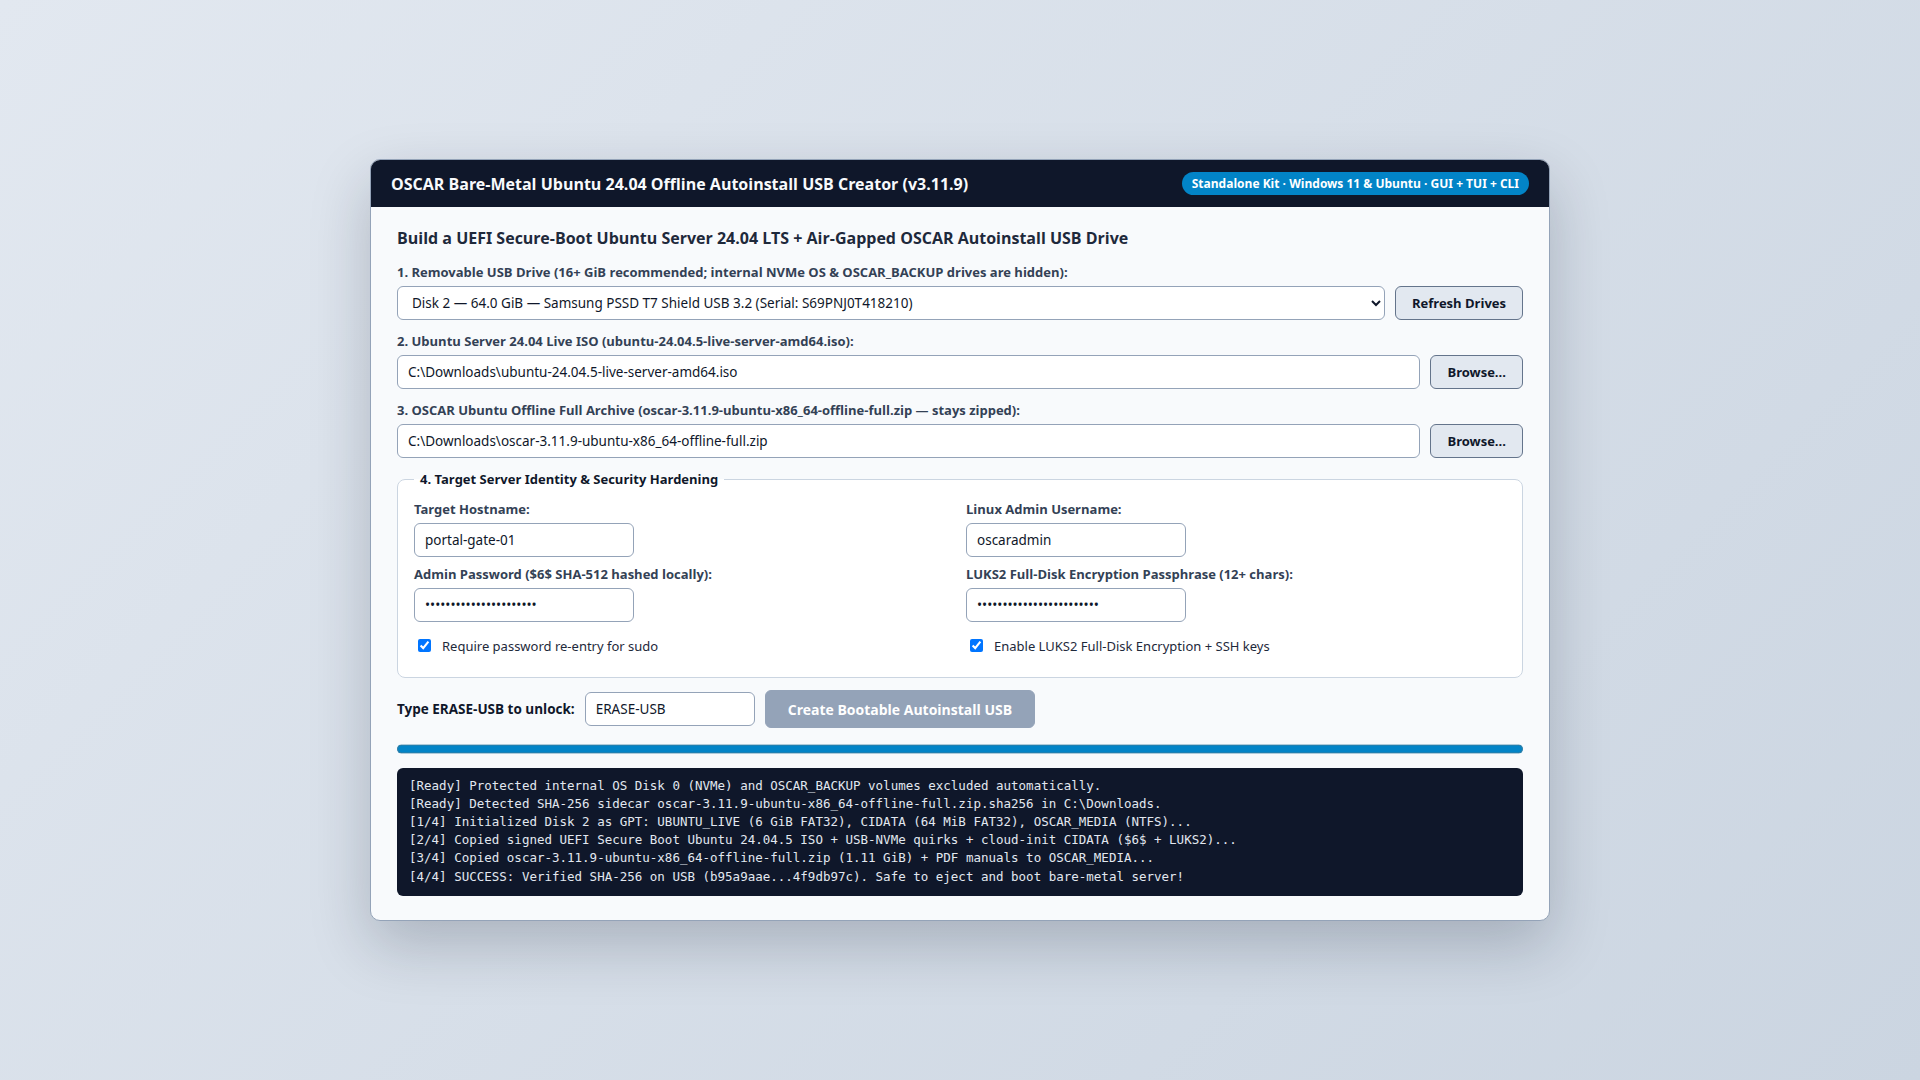
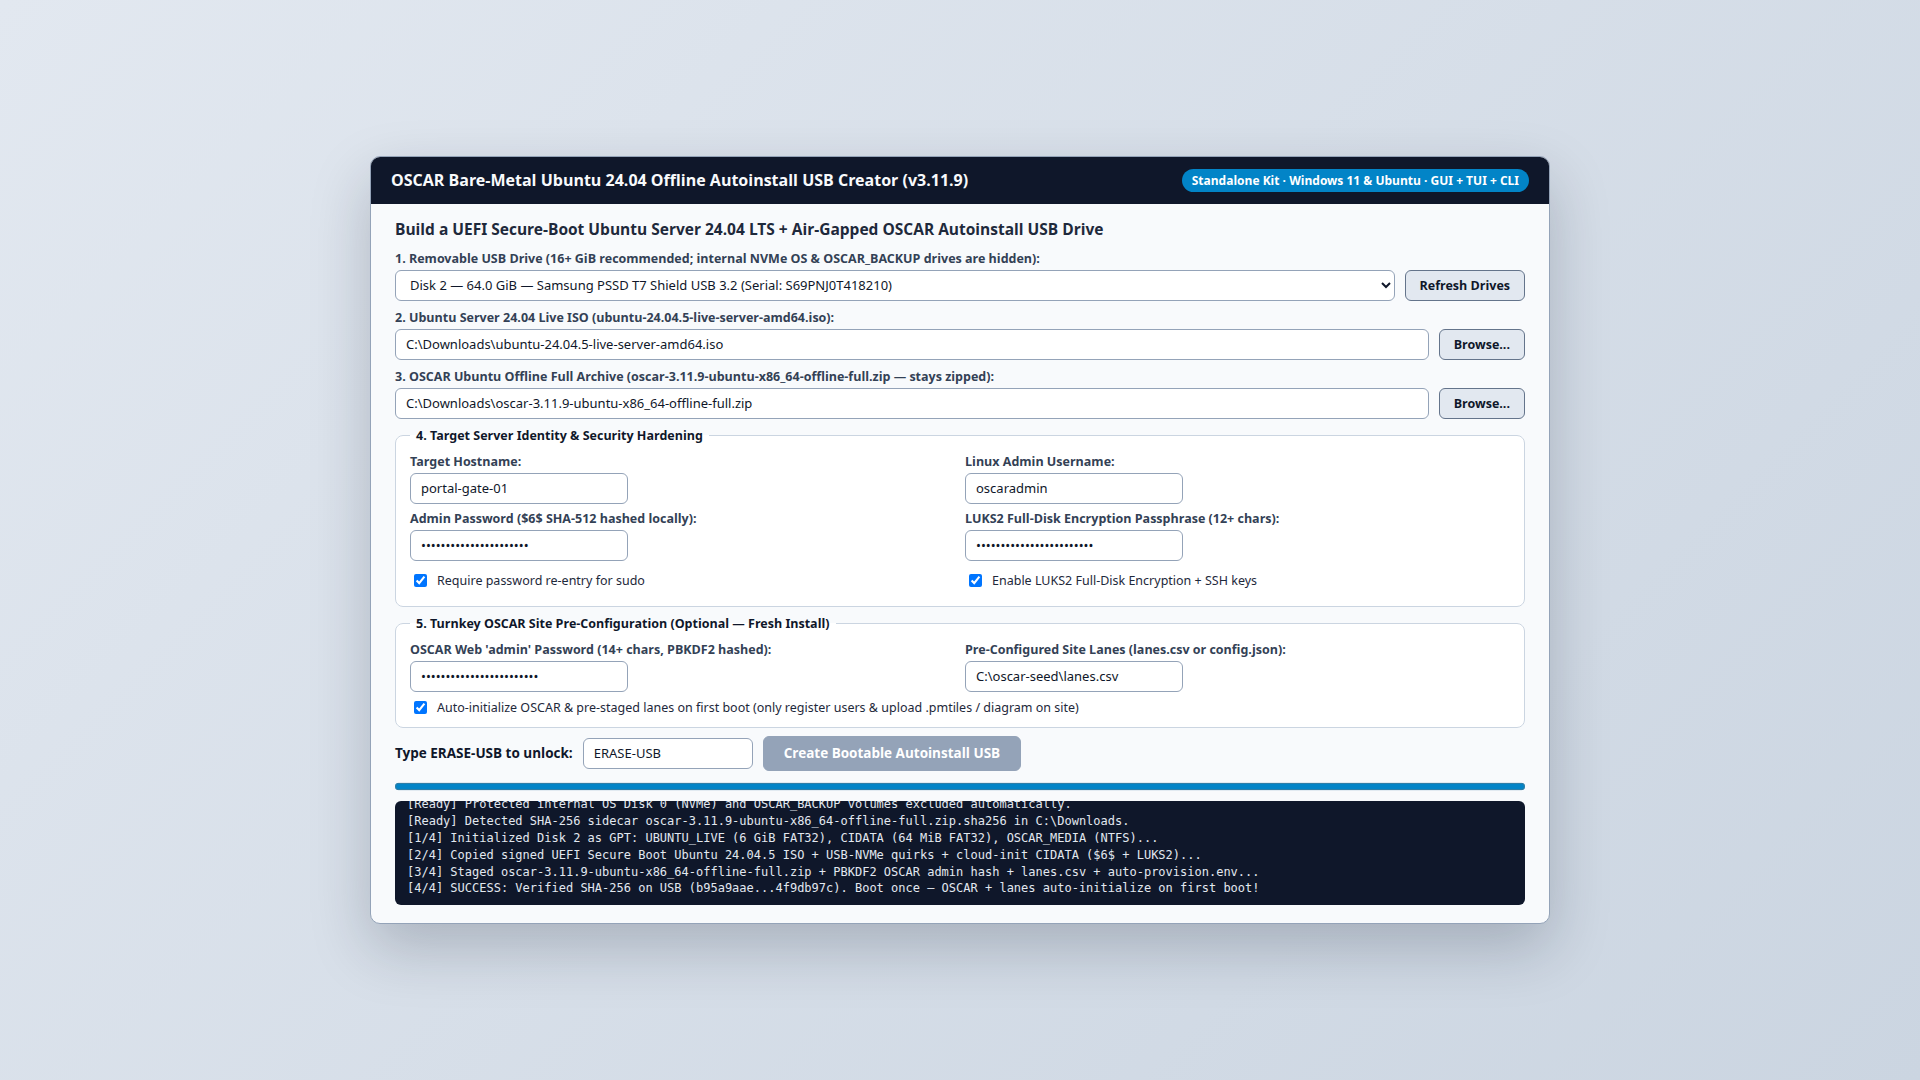
docs(v3.11.9): refresh screenshot 55 & localized manuals for turnkey USB site pre-configuration

Changed region(s): [[0.1875, 0.1222, 0.8125, 0.8556], [0.6875, 0.2444, 0.8125, 0.4278]]

diff --git a/services/sensorhub-service-oscar/src/main/resources/com/botts/impl/service/oscar/i18n/README_el.md b/services/sensorhub-service-oscar/src/main/resources/com/botts/impl/service/oscar/i18n/README_el.md
@@ -1265,7 +1265,7 @@ PostgreSQL παραμένει διαθέσιμη, και σταματά την P
   </video>
 </details>
 
-Για νέους φυσικούς εξυπηρετητές Ubuntu Server 24.04 LTS, κατεβάστε το αυτόνομο πακέτο **`oscar-3.11.9-autoinstall-usb-creator.zip`** (`~49 KiB`) μαζί με το `ubuntu-24.04.x-live-server-amd64.iso` και το `oscar-3.11.9-ubuntu-x86_64-offline-full.zip` χωρίς προηγούμενη αποσυμπίεση του πακέτου offline. Εκκινήστε το **GUI επιφάνειας εργασίας** (`create-autoinstall-usb.bat` σε Windows 11 ή `sudo bash create-autoinstall-usb.sh --gui` σε Ubuntu), το **διαδραστικό TUI** (`-Tui` / `--tui`) ή το **CLI** για δημιουργία εκκινήσιμου USB UEFI Secure-Boot με SHA-512 (`$6$`), προαιρετική κρυπτογράφηση LUKS2, `--require-sudo-password` και `--ssh-keys-only`, προστατεύοντας πλήρως τους εσωτερικούς δίσκους και το `OSCAR_BACKUP`.
+Για νέους φυσικούς εξυπηρετητές Ubuntu Server 24.04 LTS, κατεβάστε το αυτόνομο πακέτο **`oscar-3.11.9-autoinstall-usb-creator.zip`** (`~53 KiB`) μαζί με το `ubuntu-24.04.x-live-server-amd64.iso` και το `oscar-3.11.9-ubuntu-x86_64-offline-full.zip` χωρίς προηγούμενη αποσυμπίεση του πακέτου offline. Εκκινήστε το **GUI επιφάνειας εργασίας** (`create-autoinstall-usb.bat` σε Windows 11 ή `sudo bash create-autoinstall-usb.sh --gui` σε Ubuntu), το **διαδραστικό TUI** (`-Tui` / `--tui`) ή το **CLI** για δημιουργία εκκινήσιμου USB UEFI Secure-Boot με SHA-512 (`$6$`), προαιρετική κρυπτογράφηση LUKS2, `--require-sudo-password`, `--ssh-keys-only` και **προρύθμιση εγκατάστασης με το κλειδί στο χέρι** (αρχικός κωδικός web `admin` με PBKDF2 χωρίς απλό κείμενο στο USB, `lanes.csv` / `config.json` και αυτόματη αρχικοποίηση στην πρώτη εκκίνηση μέσω `-AutoInitOscar` / `--auto-init-oscar` ώστε επιτόπου να απομένει μόνο η εγγραφή χρηστών και η μεταφόρτωση `.pmtiles` ή του διαγράμματος τοποθεσίας), προστατεύοντας πλήρως τους εσωτερικούς δίσκους και το `OSCAR_BACKUP`.
 
 ![Δημιουργός USB αυτόματης εγκατάστασης Ubuntu 24.04 εκτός δικτύου](https://raw.githubusercontent.com/ORNL/osh-oakridge-modules/main/docs/oscar-operator-manual/images/55-bare-metal-autoinstall-usb-creator.png)
 

diff --git a/services/sensorhub-service-oscar/src/main/resources/com/botts/impl/service/oscar/i18n/README.md b/services/sensorhub-service-oscar/src/main/resources/com/botts/impl/service/oscar/i18n/README.md
@@ -1294,7 +1294,7 @@ Administrators can update OSCAR directly from **OSCAR Viewer -> Users & Access (
   </video>
 </details>
 
-For new bare-metal Ubuntu Server 24.04 LTS appliances, download the compact standalone **`oscar-3.11.9-autoinstall-usb-creator.zip`** (`~49 KiB`) alongside `ubuntu-24.04.x-live-server-amd64.iso` and `oscar-3.11.9-ubuntu-x86_64-offline-full.zip` without unpacking the offline bundle first. Launch the **Desktop GUI** (`create-autoinstall-usb.bat` on Windows 11 or `sudo bash create-autoinstall-usb.sh --gui` on Ubuntu), **Interactive Terminal TUI** (`-Tui` / `--tui`), or **Scriptable CLI** to build a UEFI Secure-Boot installer USB with native `$6$` SHA-512 password hashing, optional 12+ character LUKS2 full-disk encryption, `--require-sudo-password`, and `--ssh-keys-only` while keeping internal OS and `OSCAR_BACKUP` disks strictly protected.
+For new bare-metal Ubuntu Server 24.04 LTS appliances, download the compact standalone **`oscar-3.11.9-autoinstall-usb-creator.zip`** (`~53 KiB`) alongside `ubuntu-24.04.x-live-server-amd64.iso` and `oscar-3.11.9-ubuntu-x86_64-offline-full.zip` without unpacking the offline bundle first. Launch the **Desktop GUI** (`create-autoinstall-usb.bat` on Windows 11 or `sudo bash create-autoinstall-usb.sh --gui` on Ubuntu), **Interactive Terminal TUI** (`-Tui` / `--tui`), or **Scriptable CLI** to build a UEFI Secure-Boot installer USB with native `$6$` SHA-512 Linux password hashing, optional 12+ character LUKS2 full-disk encryption, `--require-sudo-password`, `--ssh-keys-only`, and **Turnkey Site Pre-Configuration**—pre-staging a PBKDF2-hashed initial OSCAR web `admin` password (`14+` characters, zero plaintext on USB), `lanes.csv` / `config.json`, and unattended first-boot OSCAR initialization (`-AutoInitOscar` / `--auto-init-oscar`) so on arrival at the site you only open `https://<hostname>/`, register site operators, and upload `.pmtiles` or the site background diagram while keeping internal OS and `OSCAR_BACKUP` disks strictly protected.
 
 ![Bare-Metal Ubuntu 24.04 Offline Autoinstall USB Creator](https://raw.githubusercontent.com/ORNL/osh-oakridge-modules/main/docs/oscar-operator-manual/images/55-bare-metal-autoinstall-usb-creator.png)
 

diff --git a/services/sensorhub-service-oscar/src/main/resources/com/botts/impl/service/oscar/i18n/README_fr.md b/services/sensorhub-service-oscar/src/main/resources/com/botts/impl/service/oscar/i18n/README_fr.md
@@ -1268,7 +1268,7 @@ Les administrateurs peuvent mettre à niveau OSCAR directement depuis **OSCAR Vi
   </video>
 </details>
 
-Pour les nouveaux serveurs physiques Ubuntu Server 24.04 LTS, téléchargez l’archive autonome **`oscar-3.11.9-autoinstall-usb-creator.zip`** (`~49 KiB`) avec `ubuntu-24.04.x-live-server-amd64.iso` et `oscar-3.11.9-ubuntu-x86_64-offline-full.zip` sans décompresser au préalable l’archive hors ligne. Lancez l’**interface graphique (GUI)** (`create-autoinstall-usb.bat` sous Windows 11 ou `sudo bash create-autoinstall-usb.sh --gui` sous Ubuntu), le **TUI interactif** (`-Tui` / `--tui`) ou la **CLI** pour préparer une clé USB UEFI Secure-Boot avec hachage SHA-512 (`$6$`), chiffrement LUKS2 facultatif, `--require-sudo-password` et `--ssh-keys-only`, tout en protégeant les disques internes et `OSCAR_BACKUP`.
+Pour les nouveaux serveurs physiques Ubuntu Server 24.04 LTS, téléchargez l’archive autonome **`oscar-3.11.9-autoinstall-usb-creator.zip`** (`~53 KiB`) avec `ubuntu-24.04.x-live-server-amd64.iso` et `oscar-3.11.9-ubuntu-x86_64-offline-full.zip` sans décompresser au préalable l’archive hors ligne. Lancez l’**interface graphique (GUI)** (`create-autoinstall-usb.bat` sous Windows 11 ou `sudo bash create-autoinstall-usb.sh --gui` sous Ubuntu), le **TUI interactif** (`-Tui` / `--tui`) ou la **CLI** pour préparer une clé USB UEFI Secure-Boot avec hachage SHA-512 (`$6$`), chiffrement LUKS2 facultatif, `--require-sudo-password`, `--ssh-keys-only` et **préconfiguration clé en main du site** (mot de passe web initial `admin` haché en PBKDF2 sans texte clair sur la clé, `lanes.csv` / `config.json` et initialisation automatique au premier démarrage via `-AutoInitOscar` / `--auto-init-oscar` afin qu’il ne reste sur site qu’à inscrire les opérateurs et téléverser `.pmtiles` ou le schéma du site), tout en protégeant les disques internes et `OSCAR_BACKUP`.
 
 ![Créateur de clé USB d’installation automatique Ubuntu 24.04 hors ligne](https://raw.githubusercontent.com/ORNL/osh-oakridge-modules/main/docs/oscar-operator-manual/images/55-bare-metal-autoinstall-usb-creator.png)
 

diff --git a/services/sensorhub-service-oscar/src/main/resources/com/botts/impl/service/oscar/i18n/README_es.md b/services/sensorhub-service-oscar/src/main/resources/com/botts/impl/service/oscar/i18n/README_es.md
@@ -1267,7 +1267,7 @@ Los administradores pueden actualizar OSCAR directamente desde **OSCAR Viewer ->
   </video>
 </details>
 
-Para nuevos servidores físicos Ubuntu Server 24.04 LTS, descargue el paquete independiente **`oscar-3.11.9-autoinstall-usb-creator.zip`** (`~49 KiB`) junto con `ubuntu-24.04.x-live-server-amd64.iso` y `oscar-3.11.9-ubuntu-x86_64-offline-full.zip` sin descomprimir antes el paquete sin conexión. Ejecute la **GUI de escritorio** (`create-autoinstall-usb.bat` en Windows 11 o `sudo bash create-autoinstall-usb.sh --gui` en Ubuntu), la **TUI interactiva** (`-Tui` / `--tui`) o la **CLI** para crear un USB UEFI Secure-Boot con hash SHA-512 (`$6$`), cifrado LUKS2 opcional, `--require-sudo-password` y `--ssh-keys-only`, protegiendo siempre los discos internos y `OSCAR_BACKUP`.
+Para nuevos servidores físicos Ubuntu Server 24.04 LTS, descargue el paquete independiente **`oscar-3.11.9-autoinstall-usb-creator.zip`** (`~53 KiB`) junto con `ubuntu-24.04.x-live-server-amd64.iso` y `oscar-3.11.9-ubuntu-x86_64-offline-full.zip` sin descomprimir antes el paquete sin conexión. Ejecute la **GUI de escritorio** (`create-autoinstall-usb.bat` en Windows 11 o `sudo bash create-autoinstall-usb.sh --gui` en Ubuntu), la **TUI interactiva** (`-Tui` / `--tui`) o la **CLI** para crear un USB UEFI Secure-Boot con hash SHA-512 (`$6$`), cifrado LUKS2 opcional, `--require-sudo-password`, `--ssh-keys-only` y **preconfiguración llave en mano del sitio** (contraseña web inicial `admin` con hash PBKDF2 sin texto plano en el USB, `lanes.csv` / `config.json` y auto-inicialización en el primer arranque mediante `-AutoInitOscar` / `--auto-init-oscar` para que en el sitio solo registre usuarios y suba `.pmtiles` o el plano de fondo), protegiendo siempre los discos internos y `OSCAR_BACKUP`.
 
 ![Creador USB de autoinstalación Ubuntu 24.04 sin conexión](https://raw.githubusercontent.com/ORNL/osh-oakridge-modules/main/docs/oscar-operator-manual/images/55-bare-metal-autoinstall-usb-creator.png)
 

diff --git a/docs/oscar-operator-manual/README.md b/docs/oscar-operator-manual/README.md
@@ -7,7 +7,7 @@ The localized OSCAR 3.11.9 administrator and operator manuals are loaded directl
 - [Français](../../services/sensorhub-service-oscar/src/main/resources/com/botts/impl/service/oscar/i18n/README_fr.md)
 - [Ελληνικά](../../services/sensorhub-service-oscar/src/main/resources/com/botts/impl/service/oscar/i18n/README_el.md)
 
-The `images` directory contains the shared, ordered training screenshots. Keep image names stable because all localized manuals reference their upstream raw GitHub URLs so the pictures also render inside the administration README panel. Companion bite-sized `1080p` `30 fps` workflow screen recordings are maintained in [`ORNL/oscar-video-guides`](https://github.com/ORNL/oscar-video-guides); all 29 bundled offline video guides ship with native English (`en`), Spanish (`es`), French (`fr`), and Greek (`el`) subtitle tracks that switch automatically with the operator's selected UI language.
+The `images` directory contains the shared, ordered training screenshots. Keep image names stable because all localized manuals reference their upstream raw GitHub URLs so the pictures also render inside the administration README panel. Companion bite-sized `1080p` `30 fps` workflow screen recordings are maintained in [`ORNL/oscar-video-guides`](https://github.com/ORNL/oscar-video-guides); all 31 bundled offline video guides ship with native English (`en`), Spanish (`es`), French (`fr`), and Greek (`el`) subtitle tracks that switch automatically with the operator's selected UI language.
 
 ## Console navigation and toolbar icon symbols
 
